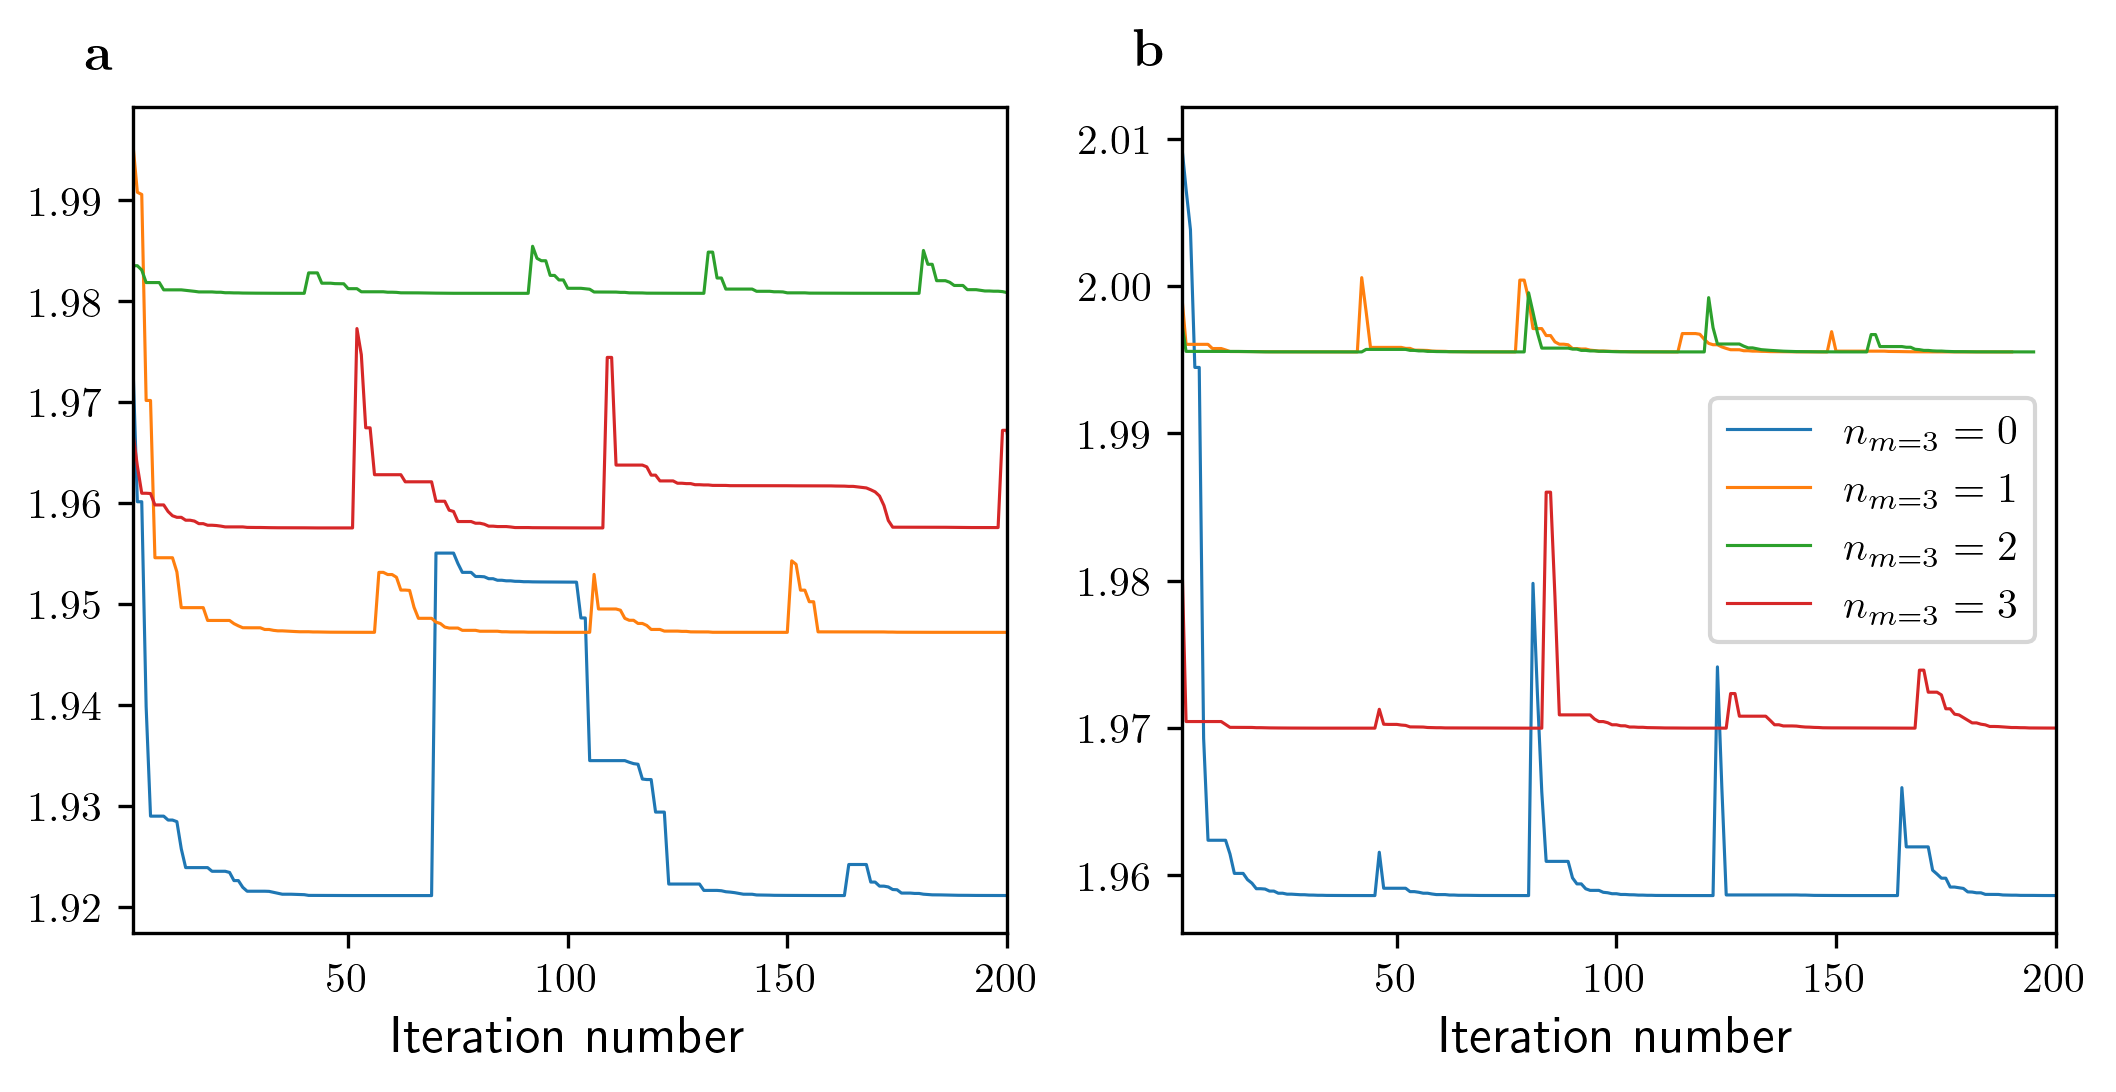
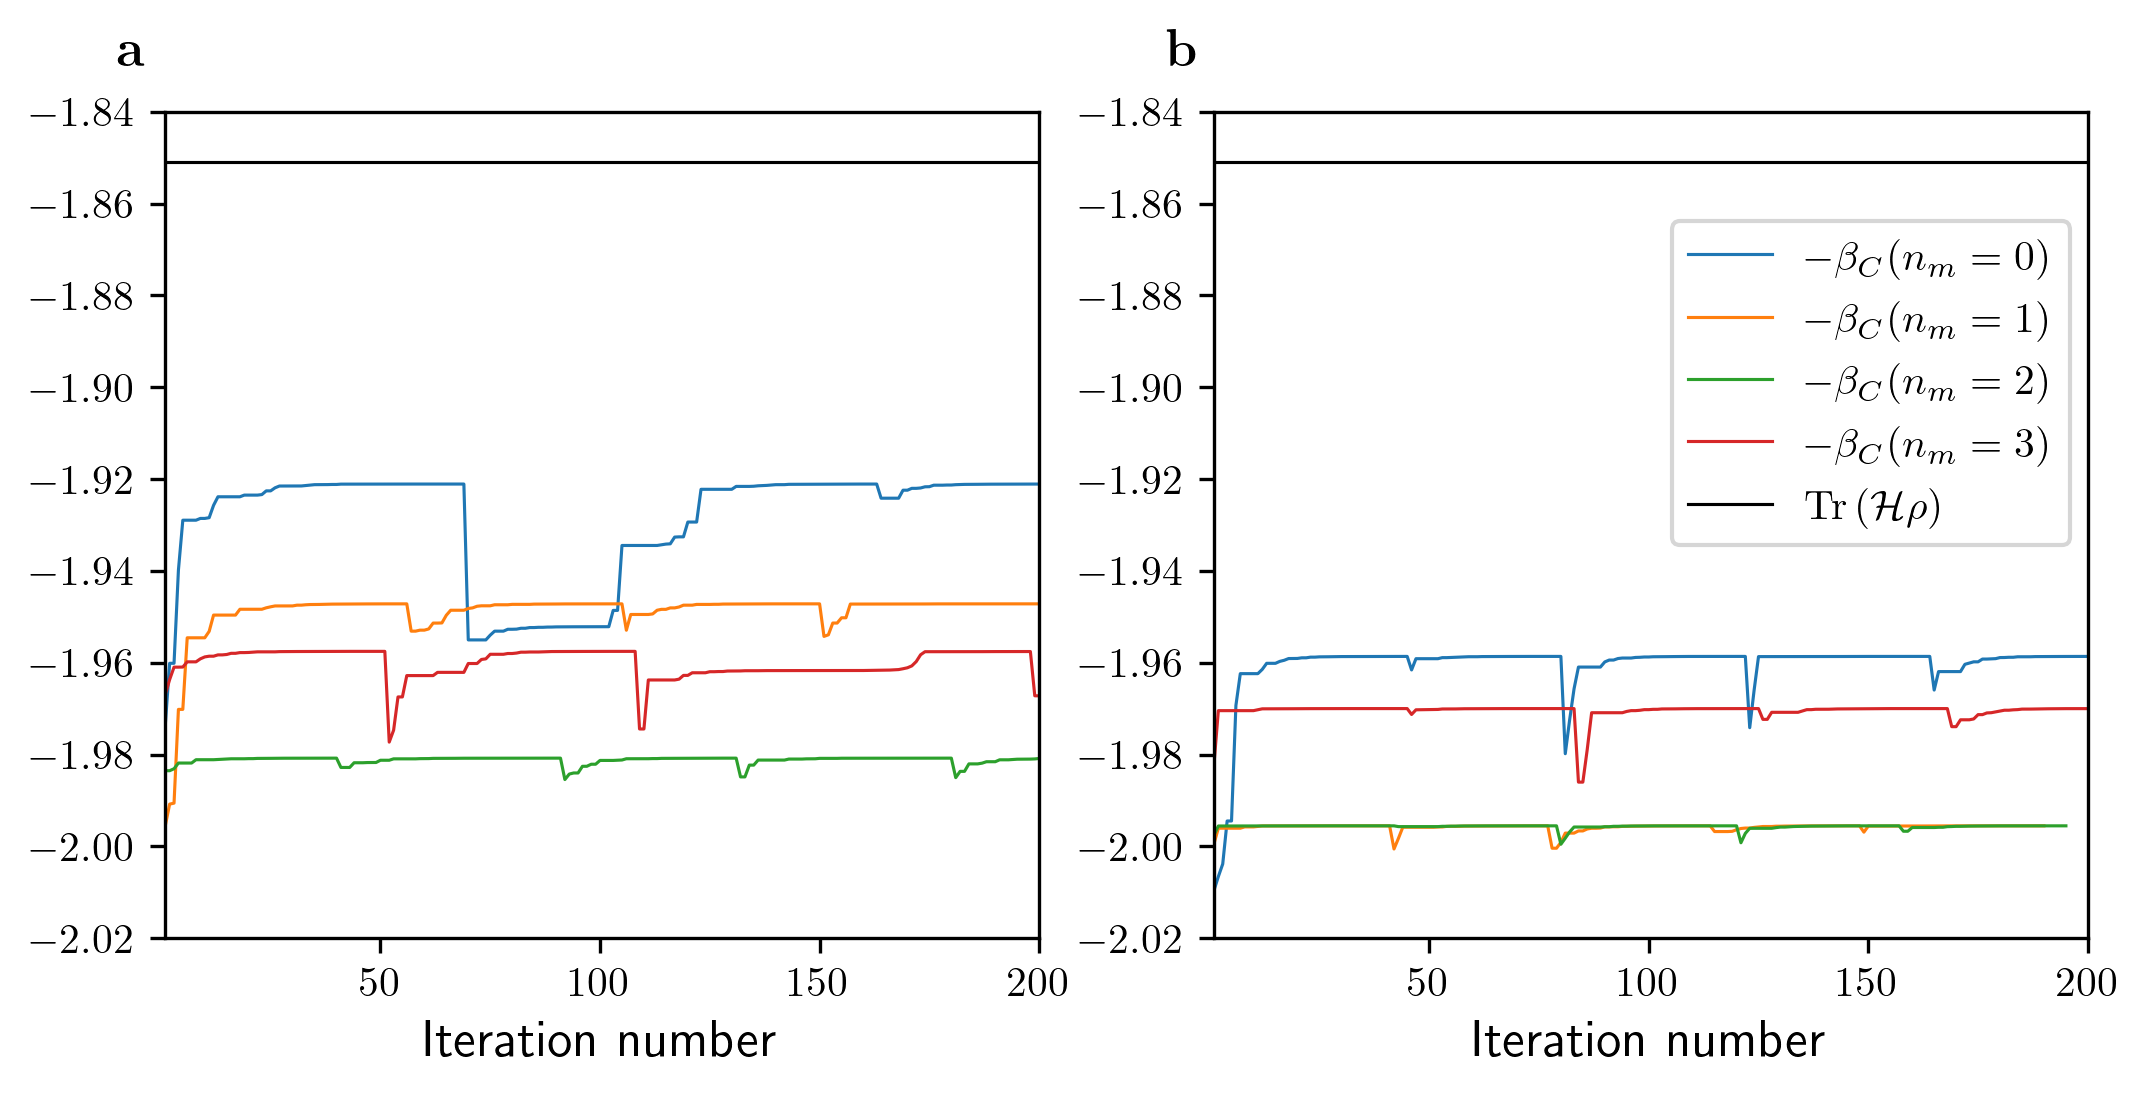
Updates figures

diff --git a/code/figures_report/figures_report.py b/code/figures_report/figures_report.py
@@ -58,14 +58,14 @@ def figure_1():
     starts = []
     for j in range(len(n)-1):
         if beta_C[j]-beta_C[j+1] > .1:
-            starts.append(n[j])
+            starts.append(n[j]+1)
 
     # Initlazing the text locations and linewidth 
     x = -10
     lw = .75
 
     # initializing figures
-    fig =plt.figure(figsize=(1/0.75 * lwidth, 1/0.85 * lwidth/2))
+    fig = plt.figure(figsize=(1/0.75 * lwidth, 1/0.85 * lwidth/2))
     gs = gridspec.GridSpec(
         nrows=1,
         ncols=2,
@@ -153,13 +153,13 @@ def figure_2():
     # Calculating eigenvalue of the Bell operator
     beta_Q = calc_Bell_operator(theta, H, rho, N, m, basis, extra_gate)
 
-
     # Initlazing the text locations and linewidth
     x_2 = -12
     x_1 = -17
     lw = .75
     y_1 = -1.785
-    scale = 1.3
+    # scale = 1.3
+    scale = 1
 
     # Loading Jordan-Wigner data
     beta_C_JW = np.load(save_file_dir+'hydrogen_mol/beta_C_JW.npy')
@@ -173,7 +173,7 @@ def figure_2():
     n_BK = np.linspace(1, len(beta_C_BK), len(beta_C_BK))
 
     # initializing figures
-    fig =plt.figure(figsize=(1/0.75 * lwidth/scale, 1/0.85 * lwidth/scale))
+    fig = plt.figure(figsize=(1/0.75 * lwidth/scale, 1/0.85 * lwidth/scale))
     gs = gridspec.GridSpec(
         nrows=2,
         ncols=2,
@@ -239,7 +239,7 @@ def figure_2():
     # Plotting angles of the BK transform
     ax = fig.add_subplot(gs[1, 1])
     for j in range(3):
-        ax.plot(n_BK, np.array(angles_BK)[:,j], label=r'$\theta^{(' +str(j)+')}$', linewidth=lw)
+        ax.plot(n_BK, np.array(angles_BK)[:,j], label=r'$\theta^{(' +str(j+1)+')}$', linewidth=lw)
     lines = [43, 78, 121, 165]
     for j in lines:
         ax.axvline(j, color='k', linestyle='--', alpha=.2)
@@ -260,7 +260,6 @@ def figure_2():
 
 
 def figure_3():
-
     # Set parameters to make a simple molecule.
     geometry = [('H', (0., 0., 0.)), ('H', (0., 0., .7414))] # in Angstroms
     basis = 'sto-3G'
@@ -285,6 +284,7 @@ def figure_3():
     psi_G[:,0] = eig_vecs[:,0]
     rho = np.matmul(psi_G, np.transpose(psi_G))
 
+
     # Defining small error
     eps = 1e-3
 
@@ -303,6 +303,7 @@ def figure_3():
 
     # Initlazing the text locations and linewidth
     x = -10
+    y = -1.83
     lw = .75
 
     # initializing figures
@@ -324,13 +325,19 @@ def figure_3():
 
     # Plotting the Jordan-Wigner data
     ax = fig.add_subplot(gs[0, 0])
-    ax.plot(np.linspace(1, len(beta_C), len(beta_C)) , -beta_C , label=r'$n_{m=3} = 0$', linewidth=lw)
-    ax.plot(np.linspace(1, len(beta_C1), len(beta_C1)) , -beta_C1 , label=r'$n_{m=3} = 1$', linewidth=lw)
-    ax.plot(np.linspace(1, len(beta_C2), len(beta_C2)) , -beta_C2 , label=r'$n_{m=3} = 2$', linewidth=lw)
-    ax.plot(np.linspace(1, len(beta_C3), len(beta_C3)) , -beta_C3 , label=r'$n_{m=3} = 3$', linewidth=lw)
+    ax.plot(np.linspace(1, len(beta_C), len(beta_C)) , beta_C , label=r'$n_{m=3} = 0$', linewidth=lw)
+    ax.plot(np.linspace(1, len(beta_C1), len(beta_C1)) , beta_C1 , label=r'$n_{m=3} = 1$', linewidth=lw)
+    ax.plot(np.linspace(1, len(beta_C2), len(beta_C2)) , beta_C2 , label=r'$n_{m=3} = 2$', linewidth=lw)
+    ax.plot(np.linspace(1, len(beta_C3), len(beta_C3)) , beta_C3 , label=r'$n_{m=3} = 3$', linewidth=lw)
+    ax.plot(
+        np.linspace(1, len(beta_C3), len(beta_C3)), np.ones(len(beta_C3))*beta_Q, 'k',
+        label=r'$\mathrm{Tr}\left( \mathcal{H} \rho \right)$', linewidth=lw
+    )
     ax.set_xlabel(r'Iteration number')
     ax.set_xlim((1, 200))
-    ax.text(x, 2.003, '$\mathbf{a}$',  size = MEDIUM_SIZE)
+    ax.set_ylim((-2.02, -1.84))
+    # ax.set_ylabel(r'$-\beta_C$')
+    ax.text(x, y, '$\mathbf{a}$',  size = MEDIUM_SIZE)
 
     # Loading Bravyi-Kitaev data
     beta_C = np.load(save_file_dir+'hydrogen_mol/beta_C_BK.npy')
@@ -340,14 +347,19 @@ def figure_3():
 
     # Plotting the Bravyi-Kitaev data
     ax = fig.add_subplot(gs[0, 1])
-    ax.plot(np.linspace(1, len(beta_C), len(beta_C)) , -beta_C , label=r'$n_{m=3} = 0$', linewidth=lw)
-    ax.plot(np.linspace(1, len(beta_C1), len(beta_C1)) , -beta_C1 , label=r'$n_{m=3} = 1$', linewidth=lw)
-    ax.plot(np.linspace(1, len(beta_C2), len(beta_C2)) , -beta_C2 , label=r'$n_{m=3} = 2$', linewidth=lw)
-    ax.plot(np.linspace(1, len(beta_C3), len(beta_C3)) , -beta_C3 , label=r'$n_{m=3} = 3$', linewidth=lw)
-    ax.legend()
+    ax.plot(np.linspace(1, len(beta_C), len(beta_C)) , beta_C , label=r'$-\beta_C(n_m = 0)$', linewidth=lw)
+    ax.plot(np.linspace(1, len(beta_C1), len(beta_C1)) , beta_C1 , label=r'$-\beta_C(n_m = 1)$', linewidth=lw)
+    ax.plot(np.linspace(1, len(beta_C2), len(beta_C2)) , beta_C2 , label=r'$-\beta_C(n_m = 2)$', linewidth=lw)
+    ax.plot(np.linspace(1, len(beta_C3), len(beta_C3)) , beta_C3 , label=r'$-\beta_C(n_m = 3)$', linewidth=lw)
+    ax.plot(
+        np.linspace(1, len(beta_C3), len(beta_C3)), np.ones(len(beta_C3))*beta_Q, 'k',
+        label=r'$\mathrm{Tr}\left( \mathcal{H} \rho \right)$', linewidth=lw
+    )
+    ax.legend(loc='best', bbox_to_anchor=(0.5,0.45))
     ax.set_xlabel(r'Iteration number')
     ax.set_xlim((1, 200)) 
-    ax.text(x, 2.015, '$\mathbf{b}$',  size = MEDIUM_SIZE)
+    ax.set_ylim((-2.02, -1.84))
+    ax.text(x, y, '$\mathbf{b}$',  size = MEDIUM_SIZE)
 
     # Saving the figure
-    fig.savefig(save_file_dir+'hydrogen_mol/results_hydrogen_varying_m.png', dpi = 300, bbox_inches='tight')   
+    fig.savefig(save_fig_dir+'hydrogen_mol/results_hydrogen_varying_m.png', dpi = 300, bbox_inches='tight')   
